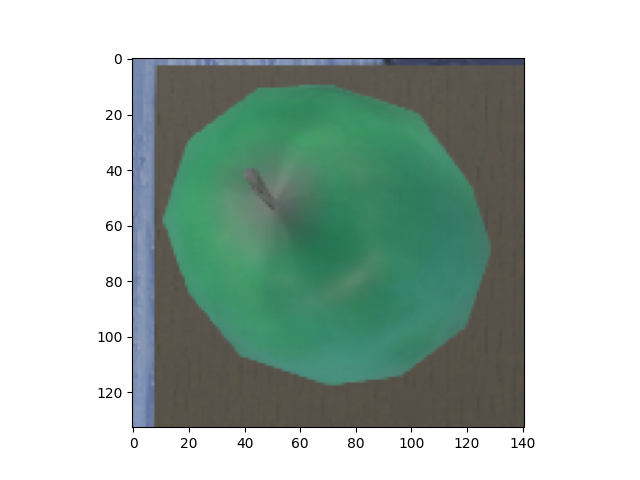
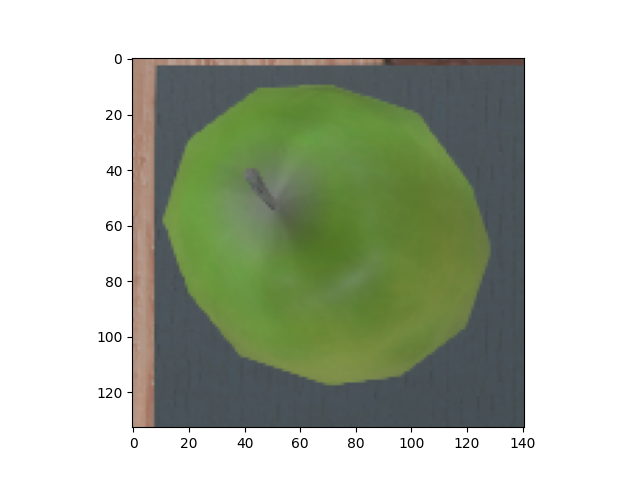
all images in correct colors

Changed region(s): [[0.1875, 0.125, 0.8125, 0.9062]]

diff --git a/controllers/ArmController/ImageDetector.py b/controllers/ArmController/ImageDetector.py
@@ -187,6 +187,7 @@ def imageAiTest(filename="snapshot.jpg"):
 def getAngle(objectImage, name=None, savefig=None):
     # Convert the image to the HSV color space
     hsv_image = cv2.cvtColor(objectImage, cv2.COLOR_BGR2HSV)
+    objectImage = objectImage[...,::-1]
     # Apply Canny edge detection
     edges = cv2.Canny(hsv_image, 50, 150)
     
@@ -241,7 +242,7 @@ def getAngle(objectImage, name=None, savefig=None):
         pathPrefix=os.path.join(imagePath,name)
         os.makedirs(imagePath, exist_ok=True)
         
-        plt.imshow(objectImage[...,::-1])
+        plt.imshow(objectImage)
         plt.savefig(f'{pathPrefix}_0original.png')
         plt.imshow(hsv_image)
         plt.savefig(f'{pathPrefix}_1HSVspace.png')
